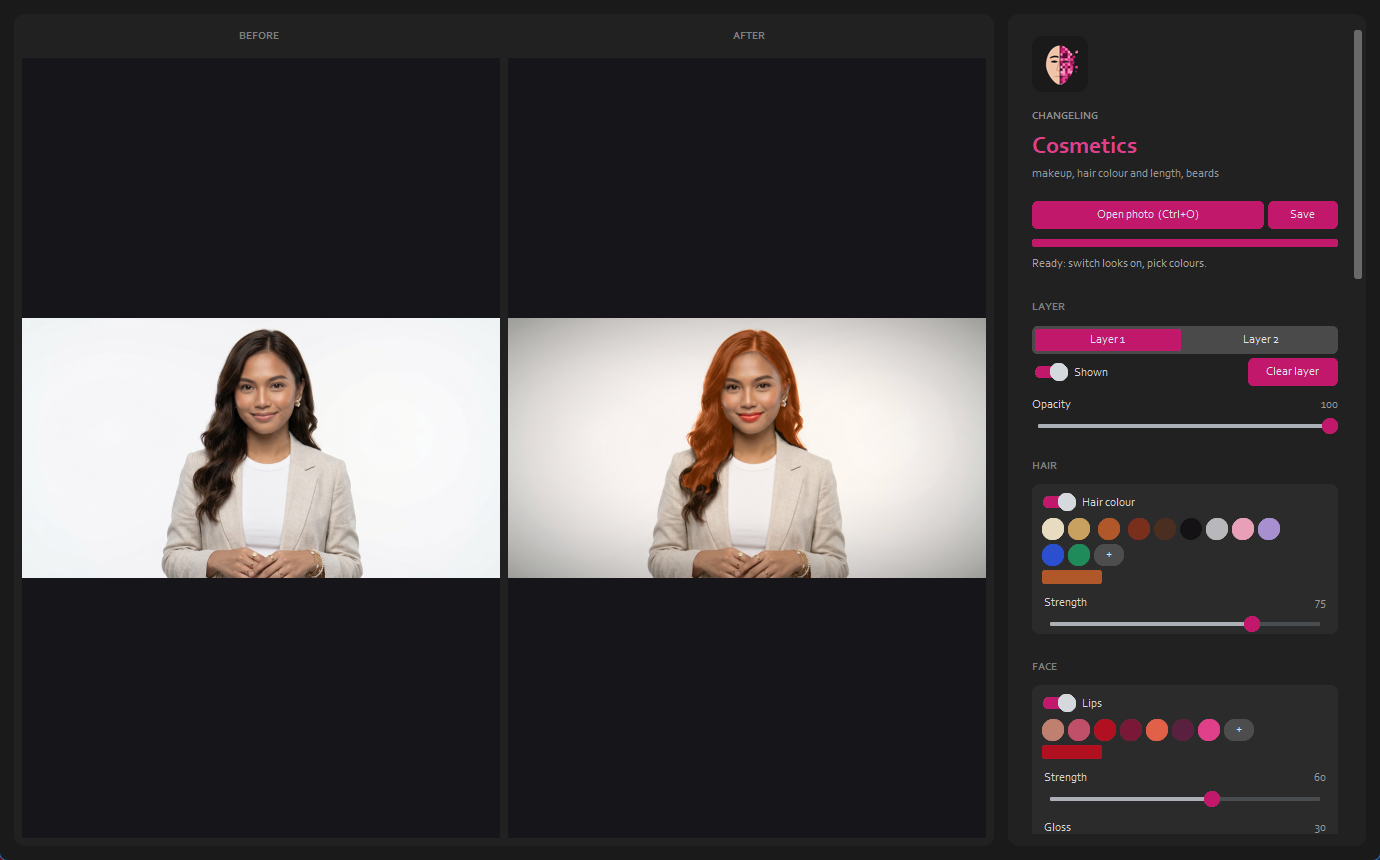
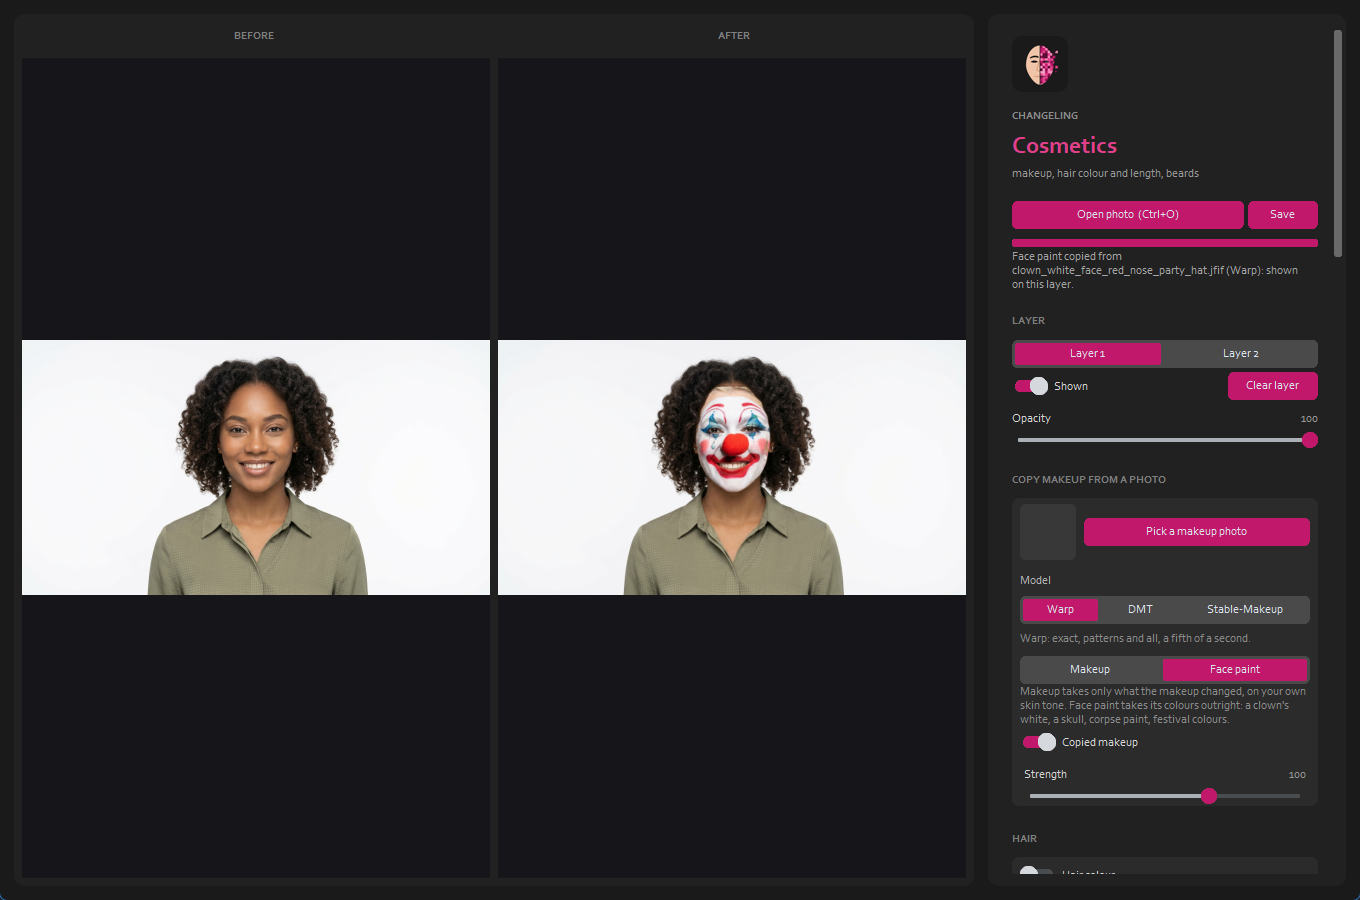
Copy makeup: a Model switch (Warp, DMT, Stable-Makeup when its models are here); window screenshot

diff --git a/window.py b/window.py
@@ -193,6 +193,16 @@ class Window:
         self.ref_thumb.pack(side="left")
         self.ref_btn = ctk.CTkButton(row, text="Pick a makeup photo", command=self.pick_reference)
         self.ref_btn.pack(side="left", fill="x", expand=True, padx=(8, 0))
+        from cosmetics.transfer_models import DEFAULT, MODELS
+        ctk.CTkLabel(box, text="Model", text_color="gray70").pack(anchor="w", padx=8, pady=(4, 0))
+        self.transfer_pick = ctk.CTkSegmentedButton(box, values=[n.split(" (")[0] for n in MODELS],
+                                                    command=self.pick_transfer_model)
+        self.transfer_pick.set(DEFAULT.split(" (")[0])
+        self.transfer_pick.pack(fill="x", padx=8, pady=(2, 0))
+        self.transfer_note = ctk.CTkLabel(box, text="Warp: exact, patterns and all, a fifth of a second.",
+                                          text_color="gray55", wraplength=290, justify="left")
+        self.transfer_note.pack(anchor="w", padx=8)
+        self.transfer_name = DEFAULT
         self.paint_mode = ctk.CTkSegmentedButton(box, values=["Makeup", "Face paint"],
                                                  command=lambda _: self.copy_makeup())
         self.paint_mode.set("Makeup")
@@ -205,7 +215,7 @@ class Window:
         ctk.CTkSwitch(box, text="Copied makeup", variable=on, command=self._look_changed).pack(anchor="w", padx=8, pady=(4, 2))
         strength = self._slider(box, "Strength", 0, 150, 100, self._look_changed)
         self.controls["transfer"] = (on, strength, None, None)
-        self.transfer_model = None
+        self.transfer_model = None          # (model name, the loaded model)
         self.ref_image = None
 
         group = None
@@ -488,22 +498,41 @@ class Window:
         self.ref_image, self.ref_name = ref_image, os.path.basename(path)
         self.copy_makeup()
 
+    def pick_transfer_model(self, short):
+        """The Model switch: Warp, DMT or Stable-Makeup. One that isn't here says why and the last one stays."""
+        from cosmetics.transfer_models import MODELS
+        name = next(n for n in MODELS if n.split(" (")[0] == short)
+        ok, why = MODELS[name].available()
+        notes = {"Warp": "Warp: exact, patterns and all, a fifth of a second.",
+                 "DMT": "DMT: a GAN at 256 pixels; colours and style, not drawn patterns.",
+                 "Stable-Makeup": "Stable-Makeup: a diffusion model redraws the makeup; seconds a photo, GPU."}
+        if not ok:
+            self.transfer_pick.set(self.transfer_name.split(" (")[0])
+            self.transfer_note.configure(text=why)
+            return
+        self.transfer_name = name
+        self.transfer_note.configure(text=notes[short])
+        self.copy_makeup()
+
     def copy_makeup(self):
         """Copy the picked photo's makeup (again: the mode changed) onto this layer."""
         if self.ref_image is None or self.painter is None or self.job is not None:
             return
         ref_image, name, paint = self.ref_image, self.ref_name, self.paint_mode.get() == "Face paint"
+        model_name = self.transfer_name
 
         def work():
-            from cosmetics.mesh_transfer import MeshTransfer
-            if self.transfer_model is None:
-                self.transfer_model = MeshTransfer()
-            delta, _ = self.transfer_model.delta(self.painter.face, ref_image, paint=paint)
+            from cosmetics.transfer_models import MODELS
+            if self.transfer_model is None or self.transfer_model[0] != model_name:
+                with self.lock:
+                    self.state["stage"] = f"Loading {model_name}"
+                self.transfer_model = (model_name, MODELS[model_name].make())
+            delta, _ = self.transfer_model[1].delta(self.painter.face, ref_image, paint, self.parser)
             self.painter.transfer = delta
             ph, pw = self.preview.face.image.shape[:2]
             self.preview.transfer = cv2.resize(delta, (pw, ph), interpolation=cv2.INTER_AREA)
             self.layer.look.transfer.on = True
-            return f"{'Face paint' if paint else 'Makeup'} copied from {name}: shown on this layer."
+            return f"{'Face paint' if paint else 'Makeup'} copied from {name} ({model_name.split(' (')[0]}): shown on this layer."
         self._run(work, "Copying the makeup")
         self.controls["transfer"][0].set(True)
 

diff --git a/cosmetics/transfer_models.py b/cosmetics/transfer_models.py
@@ -1,0 +1,85 @@
+"""transfer_models.py - the ways to copy makeup from a photo, for the window's Model switch.
+
+    Warp (exact)         mesh_transfer.py: the reference's face warped onto yours, triangle by triangle. Patterns
+                         land exactly where they were; a fifth of a second; nothing to download. The default.
+    DMT (GAN)            transfer.py: Disentangled Makeup Transfer, a GAN at 256 x 256: colours and style, not
+                         drawn patterns. Only if models/dmt.onnx is on this PC.
+    Stable-Makeup (AI)   Stable-Makeup (Zhang et al. 2024): a diffusion model that redraws the makeup onto your
+                         face. About 8 GB of models in F:\\AIModels\\StableMakeup (stable_makeup_models.py fetches
+                         them); seconds a photo on the graphics card.
+
+Each one: available() -> (True, "") or (False, why not), and make() -> something with
+delta(face, reference_rgb, paint, parser) -> (LAB change the size of the photo, the result as RGB).
+"""
+import os
+
+HERE = os.path.dirname(os.path.dirname(os.path.abspath(__file__)))
+
+
+class _Warp:
+    name = "Warp (exact)"
+
+    @staticmethod
+    def available():
+        return True, ""
+
+    @staticmethod
+    def make():
+        from .mesh_transfer import MeshTransfer
+        m = MeshTransfer()
+
+        class Run:
+            def delta(self, face, ref, paint, parser):
+                return m.delta(face, ref, paint=paint)
+        return Run()
+
+
+class _DMT:
+    name = "DMT (GAN)"
+
+    @staticmethod
+    def available():
+        from .transfer import MODEL
+        if os.path.exists(MODEL):
+            return True, ""
+        return False, "DMT's model (models/dmt.onnx) isn't on this PC."
+
+    @staticmethod
+    def make():
+        from .transfer import MakeupTransfer, read_reference
+        m = MakeupTransfer()
+
+        class Run:
+            def delta(self, face, ref, paint, parser):
+                return m.delta(face, read_reference(parser, ref), paint=paint)
+        return Run()
+
+
+class _StableMakeup:
+    name = "Stable-Makeup (AI)"
+
+    @staticmethod
+    def available():
+        from . import stable_makeup_models as sm
+        missing = sm.missing()
+        if missing:
+            have = len(sm.FILES) - len(missing)
+            return False, (f"Stable-Makeup's models are still coming: {have} of {len(sm.FILES)} files in "
+                           f"{sm.ROOT} (python -m cosmetics.stable_makeup_models fetches the rest).")
+        if not os.path.exists(os.path.join(HERE, "cosmetics", "stable_makeup.py")):
+            return False, "Stable-Makeup's models are here; its code isn't in this version yet."
+        return True, ""
+
+    @staticmethod
+    def make():
+        from .stable_makeup import StableMakeup     # noqa: F401 - added once the models are here
+        m = StableMakeup()
+
+        class Run:
+            def delta(self, face, ref, paint, parser):
+                return m.delta(face, ref, paint=paint)
+        return Run()
+
+
+MODELS = {m.name: m for m in (_Warp, _DMT, _StableMakeup)}
+DEFAULT = _Warp.name

diff --git a/README.md b/README.md
@@ -88,6 +88,10 @@ Every control answers at once: the preview is worked on a smaller copy, and Save
    in before warping). About a fifth of a second a photo; no model to download. Painted faces Face Mesh can't read
    straight away are cropped to the face OpenCV's YuNet finds and read again.
 
+   **Model** switches how it's copied: **Warp** (this, the default), **DMT** (the earlier GAN: colours and style
+   at 256 pixels, if `models/dmt.onnx` is on the PC) or **Stable-Makeup** (a diffusion model, about 8 GB of models in
+   `F:\AIModels\StableMakeup`; it's offered once they're all there). One that isn't available says why.
+
    Its limits: a reference with an open mouth on a closed one (or the other way) leaves the paint around the lips
    less tidy. A reference turned well away from the camera stretches. Hats, noses and the like aren't 3D: a clown's
    red nose is painted on.
